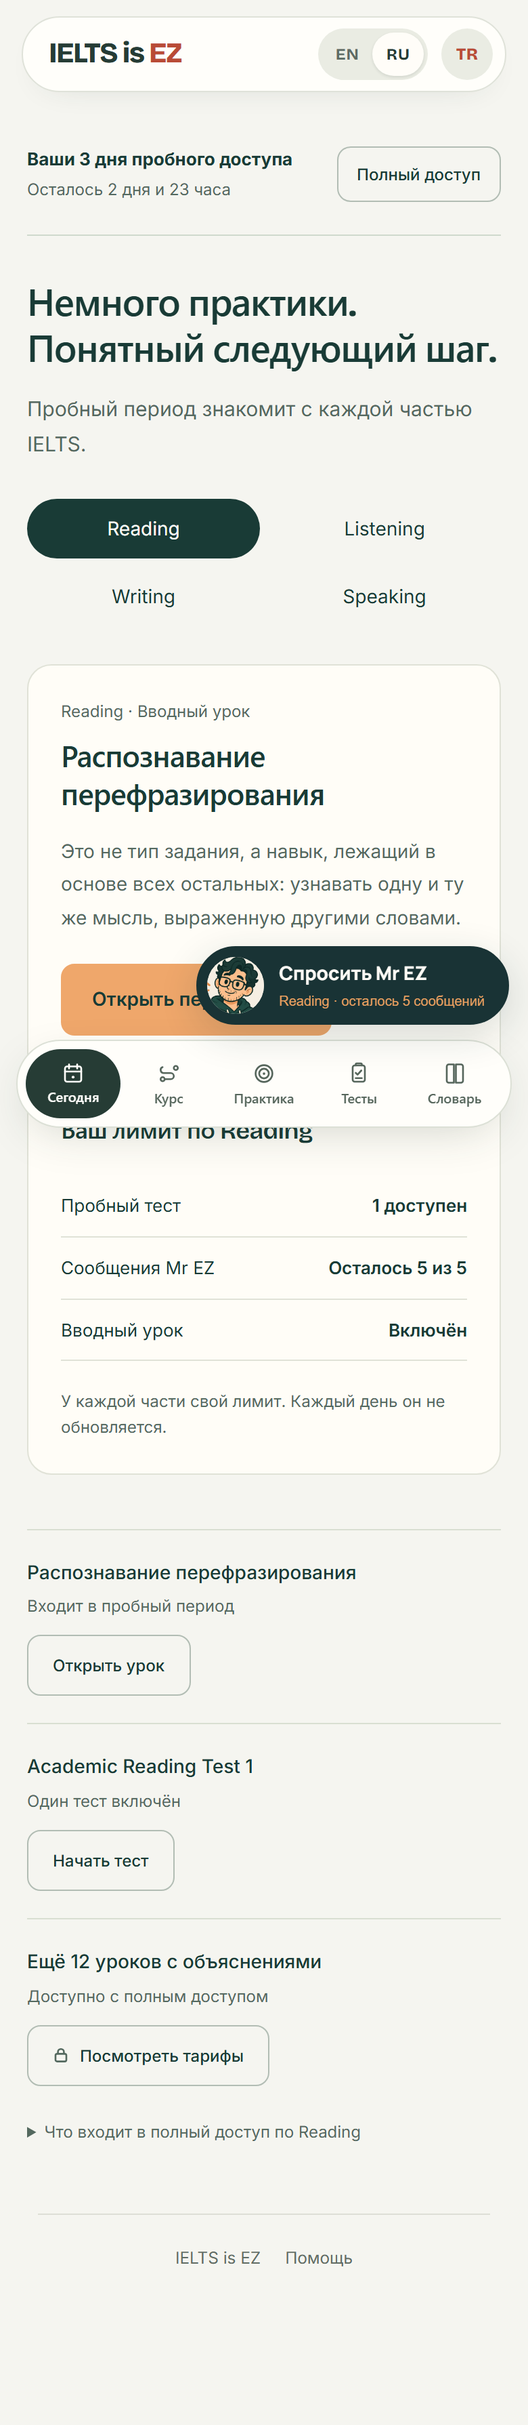
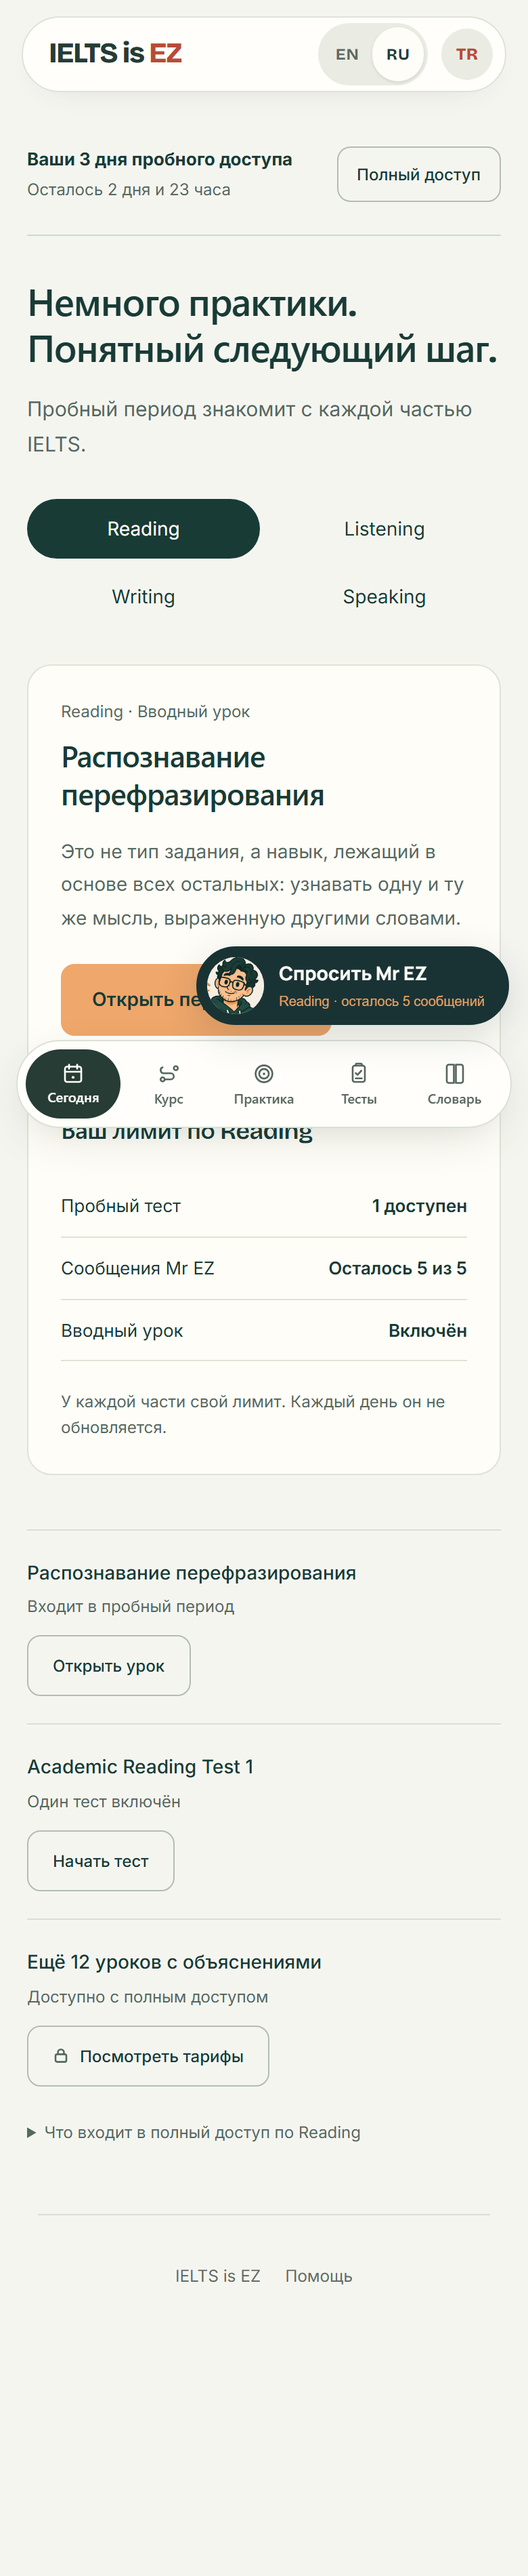
Trial after the merge with c5cf425: one shared Russian wording, 2031/2031 tests, 70/70 browser checks, no leaks

diff --git a/src/lib/i18n/dict/ru/trial.ts b/src/lib/i18n/dict/ru/trial.ts
@@ -94,7 +94,6 @@ export const strings: Record<string, string> = {
   'Not open yet: its length is still being decided': 'Пока закрыт: длительность ещё уточняется',
   'Included in your trial': 'Входит в пробный период',
   'Continue test': 'Продолжить тест',
-  'See my results': 'Мои результаты',
   'Available with full access': 'Доступно с полным доступом',
   'See what full access includes in {section}': 'Что входит в полный доступ по {section}',
   'Your trial opens one introduction and one test in each section. Everything else stays listed, so you can see what full access adds.':

diff --git a/docs/trial/evidence/results-t01.md b/docs/trial/evidence/results-t01.md
@@ -1,6 +1,6 @@
 # Trial journey (t01), local stand-in
 
-Run 1790165496. Site http://localhost:4331/ielts-website, backend http://127.0.0.1:8795 (--trial: real migration in PGlite, real Workers,
+Run 1790178985. Site http://localhost:4331/ielts-website, backend http://127.0.0.1:8795 (--trial: real migration in PGlite, real Workers,
 simulated tutor replies, SIMULATED essay assessment). Synthetic accounts only. Nothing billed.
 
 **70 of 70 checks passed.**
@@ -14,7 +14,7 @@ simulated tutor replies, SIMULATED essay assessment). Synthetic accounts only. N
 | PASS | join: questionnaire carried through the sign-in round trip |  |
 | PASS | join: no trial exists before the student presses start |  |
 | PASS | no trial yet: lesson covered with a start invitation |  |
-| PASS | start: server recorded the trial with the questionnaire | {"user_id": "f99c4118-6c4e-4613-b0ec-7c20425f7538", "started_at": "2026-09-23T12:11:54.793Z", "ends_at": "2026-09-26T12:11:54.793Z", "questionnaire": {"band": " |
+| PASS | start: server recorded the trial with the questionnaire | {"user_id": "30c551b1-4e96-462c-85ce-25521415d2c9", "started_at": "2026-09-23T15:56:50.619Z", "ends_at": "2026-09-26T15:56:50.619Z", "questionnaire": {"band": " |
 | PASS | dashboard: time left from the server clock |  |
 | PASS | dashboard: suggested section tab (Writing) opens first |  |
 | PASS | keyboard: ArrowRight moves to Speaking and focuses it |  |
@@ -54,7 +54,7 @@ simulated tutor replies, SIMULATED essay assessment). Synthetic accounts only. N
 | PASS | trial test: result shown after submitting |  |
 | PASS | trial test: submission settled the Reading test on the server |  |
 | PASS | trial test: reopening says the section's test is used |  |
-| PASS | two tabs: one Listening sitting between them | [{"user_id": "f99c4118-6c4e-4613-b0ec-7c20425f7538", "kind": "test", "section": "listening", "request_id": "sit-7ab4affd-fce2-43f2-a4ee-3be1351416ec", "activity |
+| PASS | two tabs: one Listening sitting between them | [{"user_id": "30c551b1-4e96-462c-85ce-25521415d2c9", "kind": "test", "section": "listening", "request_id": "sit-cbd0d739-3ff3-47ec-88dd-67b732b54c49", "activity |
 | PASS | writing: checker says it is the one Writing test |  |
 | PASS | writing: begun on the server when the task started |  |
 | PASS | writing: a failed grade leaves the test available and says so |  |

diff --git a/docs/TRIAL-IMPLEMENTATION.md b/docs/TRIAL-IMPLEMENTATION.md
@@ -14,10 +14,12 @@ model. Every proof below is local, against synthetic accounts.
   which carry the fixes for Codex's third and fourth ownership inspections. The second
   merge had one conflict in `TestPlayer.tsx`, resolved by keeping the platform's
   "finish the sitting before recording anything" order and reporting the trial test
-  after the result is recorded (the platform session confirmed that order). Everything
-  below was rerun after it. `main` (`b61d8c4`, vocabulary practice) is not in yet: it
-  conflicts with the platform branch in vocabulary and dashboard files, and the
-  platform session will fold it in there first. Not built on the older marketing checkout in the root folder,
+  after the result is recorded (the platform session confirmed that order). Then merged
+  again at `c5cf425`, where the platform session had folded in the published `main`
+  (`9b775df`, marked-question vocabulary practice) and resolved its conflicts; the only
+  conflict here was two neighbouring style imports, both kept, and one sentence ("See my
+  results") that the merged work already translates, whose Russian is now theirs.
+  Everything below was rerun after that merge. Not built on the older marketing checkout in the root folder,
   which was only read for Codex's design files.
 
 ## The switch
@@ -165,7 +167,7 @@ needs the same pattern, and signed short-lived links for audio.
 
 | What | Result |
 |---|---|
-| `npm test` (whole suite) | 1,941 of 1,941 pass (63 of them are the trial tests below) |
+| `npm test` (whole suite, after the merge with `c5cf425`) | 2,031 of 2,031 pass (63 of them are the trial tests below) |
 | `tests/trial-sql.test.ts`: the migration itself, in PGlite with Supabase's roles and row security | 22 of 22 |
 | `tests/trial-worker.test.ts`: the real Mr EZ handler against the real migration | 12 of 12 |
 | `tests/trial-graders.test.ts`: the real essay grader, speaking grader and live examiner | 12 of 12 |
